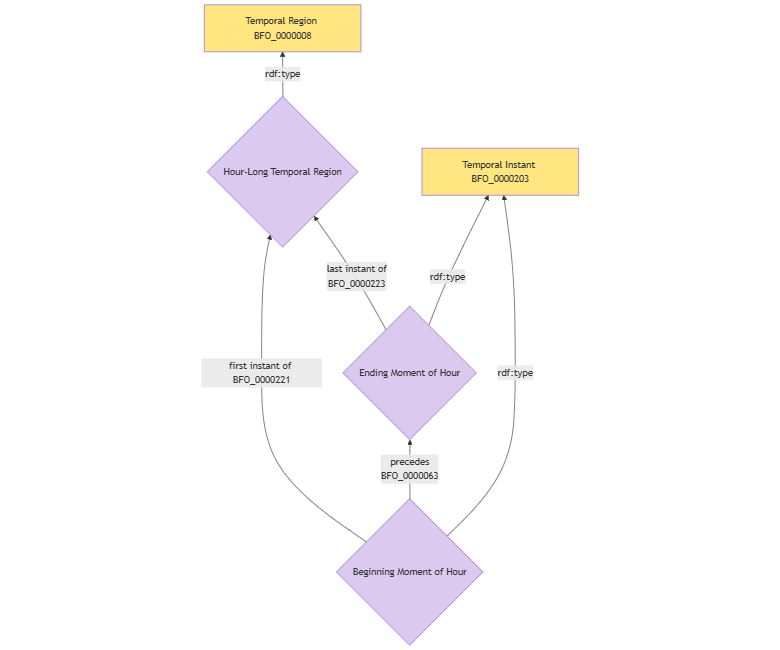
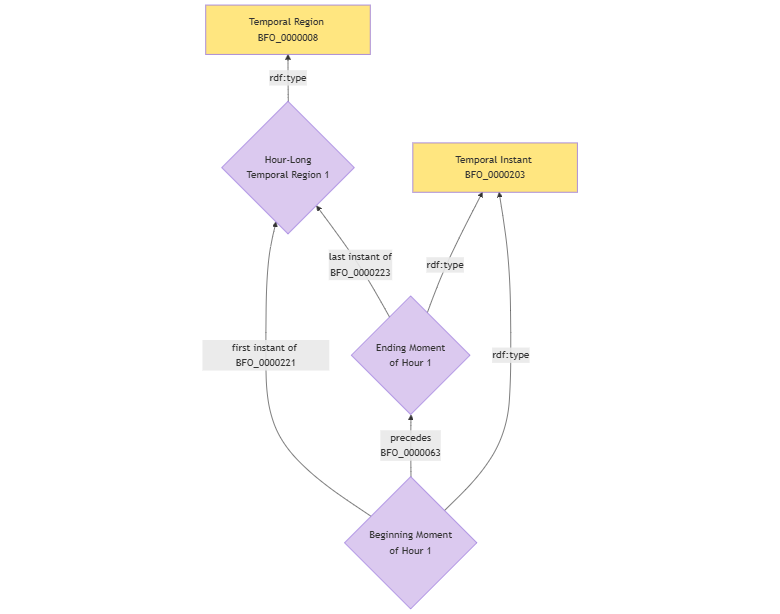
Added numerals to instances

diff --git a/design-patterns/time/First and Last Moments of a Temporal Region.md b/design-patterns/time/First and Last Moments of a Temporal Region.md
@@ -1,7 +1,10 @@
 graph BT
-    A{Hour-Long Temporal Region} -->|rdf:type| B[Temporal Region BFO_0000008]
-    C{Beginning Moment of Hour} -->|first instant of BFO_0000221| A
-    D{Ending Moment of Hour} -->|last instant of 
+    A{Hour-Long
+    Temporal Region 1} -->|rdf:type| B[Temporal Region BFO_0000008]
+    C{Beginning Moment
+    of Hour 1} -->|first instant of BFO_0000221| A
+    D{Ending Moment
+    of Hour 1} -->|last instant of 
     BFO_0000223| A
     C -->|precedes 
     BFO_0000063| D
